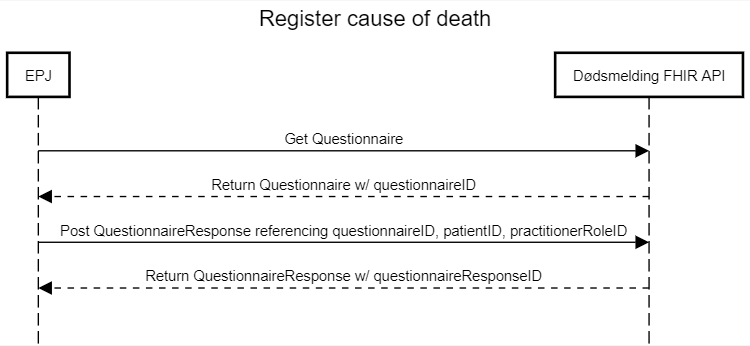
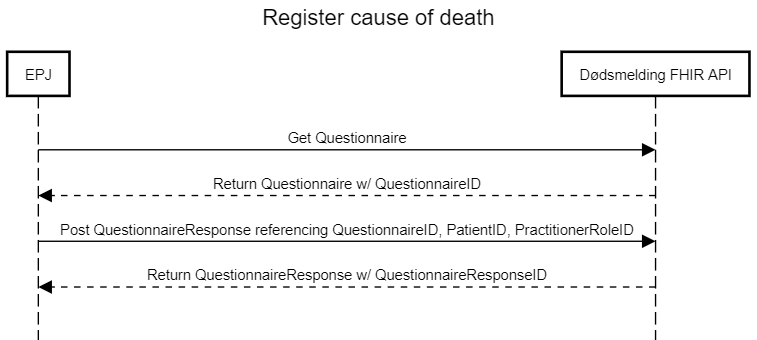
Now consistently uses PascalCase. Updated Usecase documenation.

diff --git a/Use cases/UseCases.md b/Use cases/UseCases.md
@@ -1,18 +1,18 @@
 ## Use cases
 
 ### Register death message
-Sending a death message is initiated by searching for a Patient based on its identifier (either FNR or DNR), which will return a Patient object. 
+Sending a death message is initiated by searching for a Patient based on its Identifier (either FNR or DNR), which will return a Bundle object containing matching Patients. 
 
 Then, if a PractitionerRoleID for the registering user is not available, a PractitionerRole object with contact information should be posted to receive one.
 
-Finally, the patient should be posted with a valid identifier, deceasedDate, and practitionerRoleID, which will send the information to the Norwegian tax office and return the Patient object including its PatientID.
+Finally, the patient should be posted with a valid Identifier, DeceasedDate, and PractitionerRoleID, which will send the information to the Norwegian tax office and return the Patient object including its PatientID.
 
 ![](../Pictures/register_death_message_sequence_diagram.png "Sequence diagram of registering a death message")
 
 ### Register cause of death
 Sending a cause of death message starts by calling a GET on the Questionnaire resource, which contains information about the questions and possible answers. 
 
-The QuestionnaireResponse should contain the questionnaireID, patientID, practitionerRoleID. Posting it will send the answers to FHI, and return the same object with a questionnaireResponseID.
+The QuestionnaireResponse should contain the QuestionnaireID, PatientID, PractitionerRoleID. Posting it will send the answers to FHI, and return the same object with a QuestionnaireResponseID.
 
 ![](../Pictures/register_cause_of_death_sequence_diagram.png "Sequence diagram of registering a cause of death message")
 
